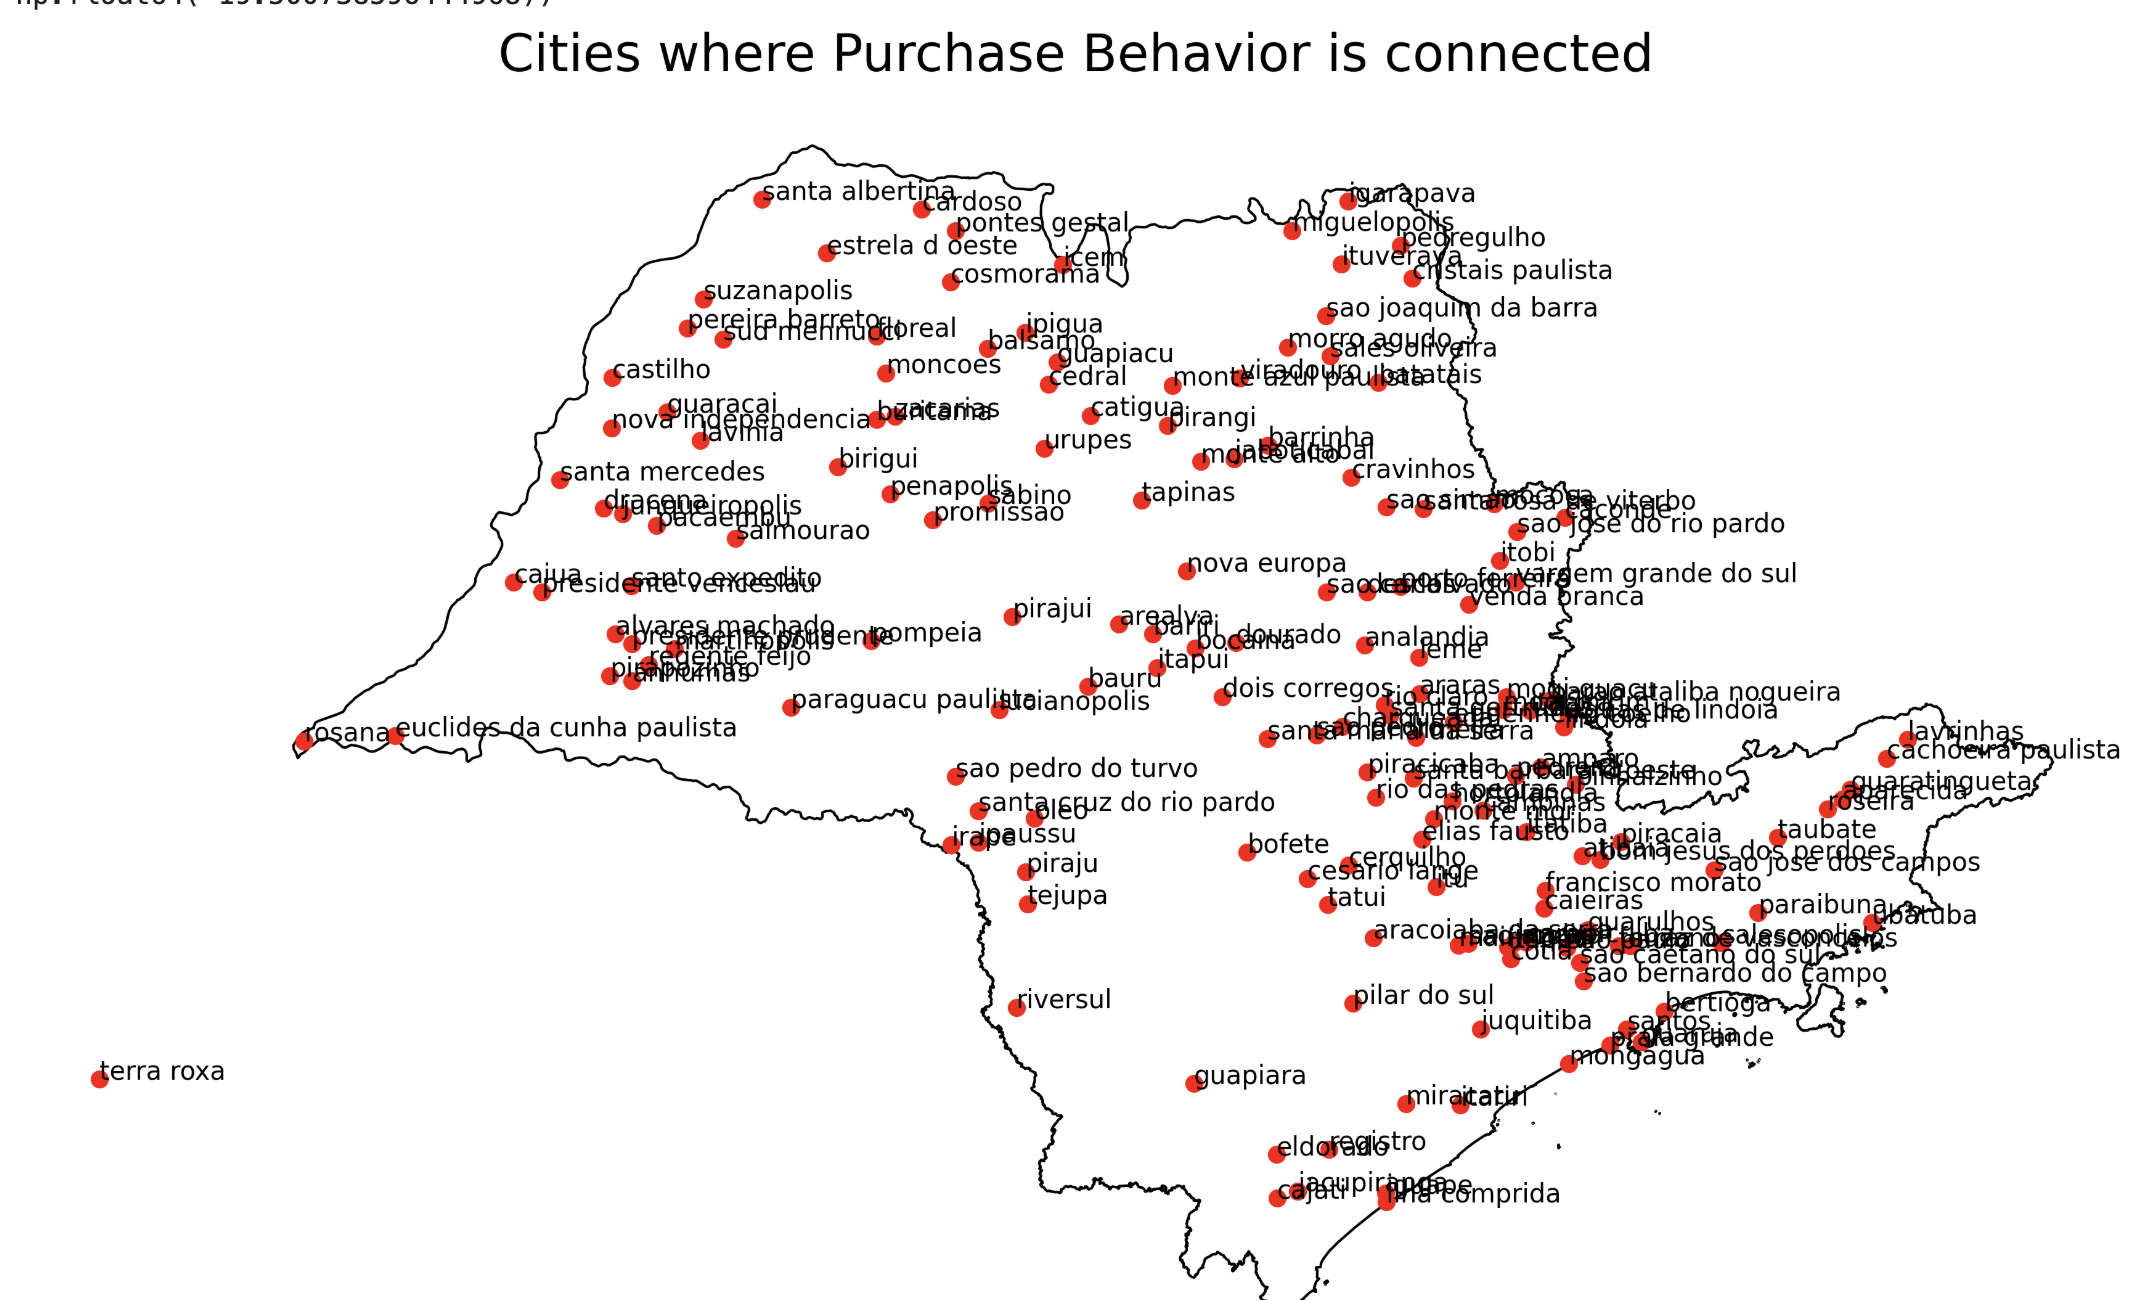
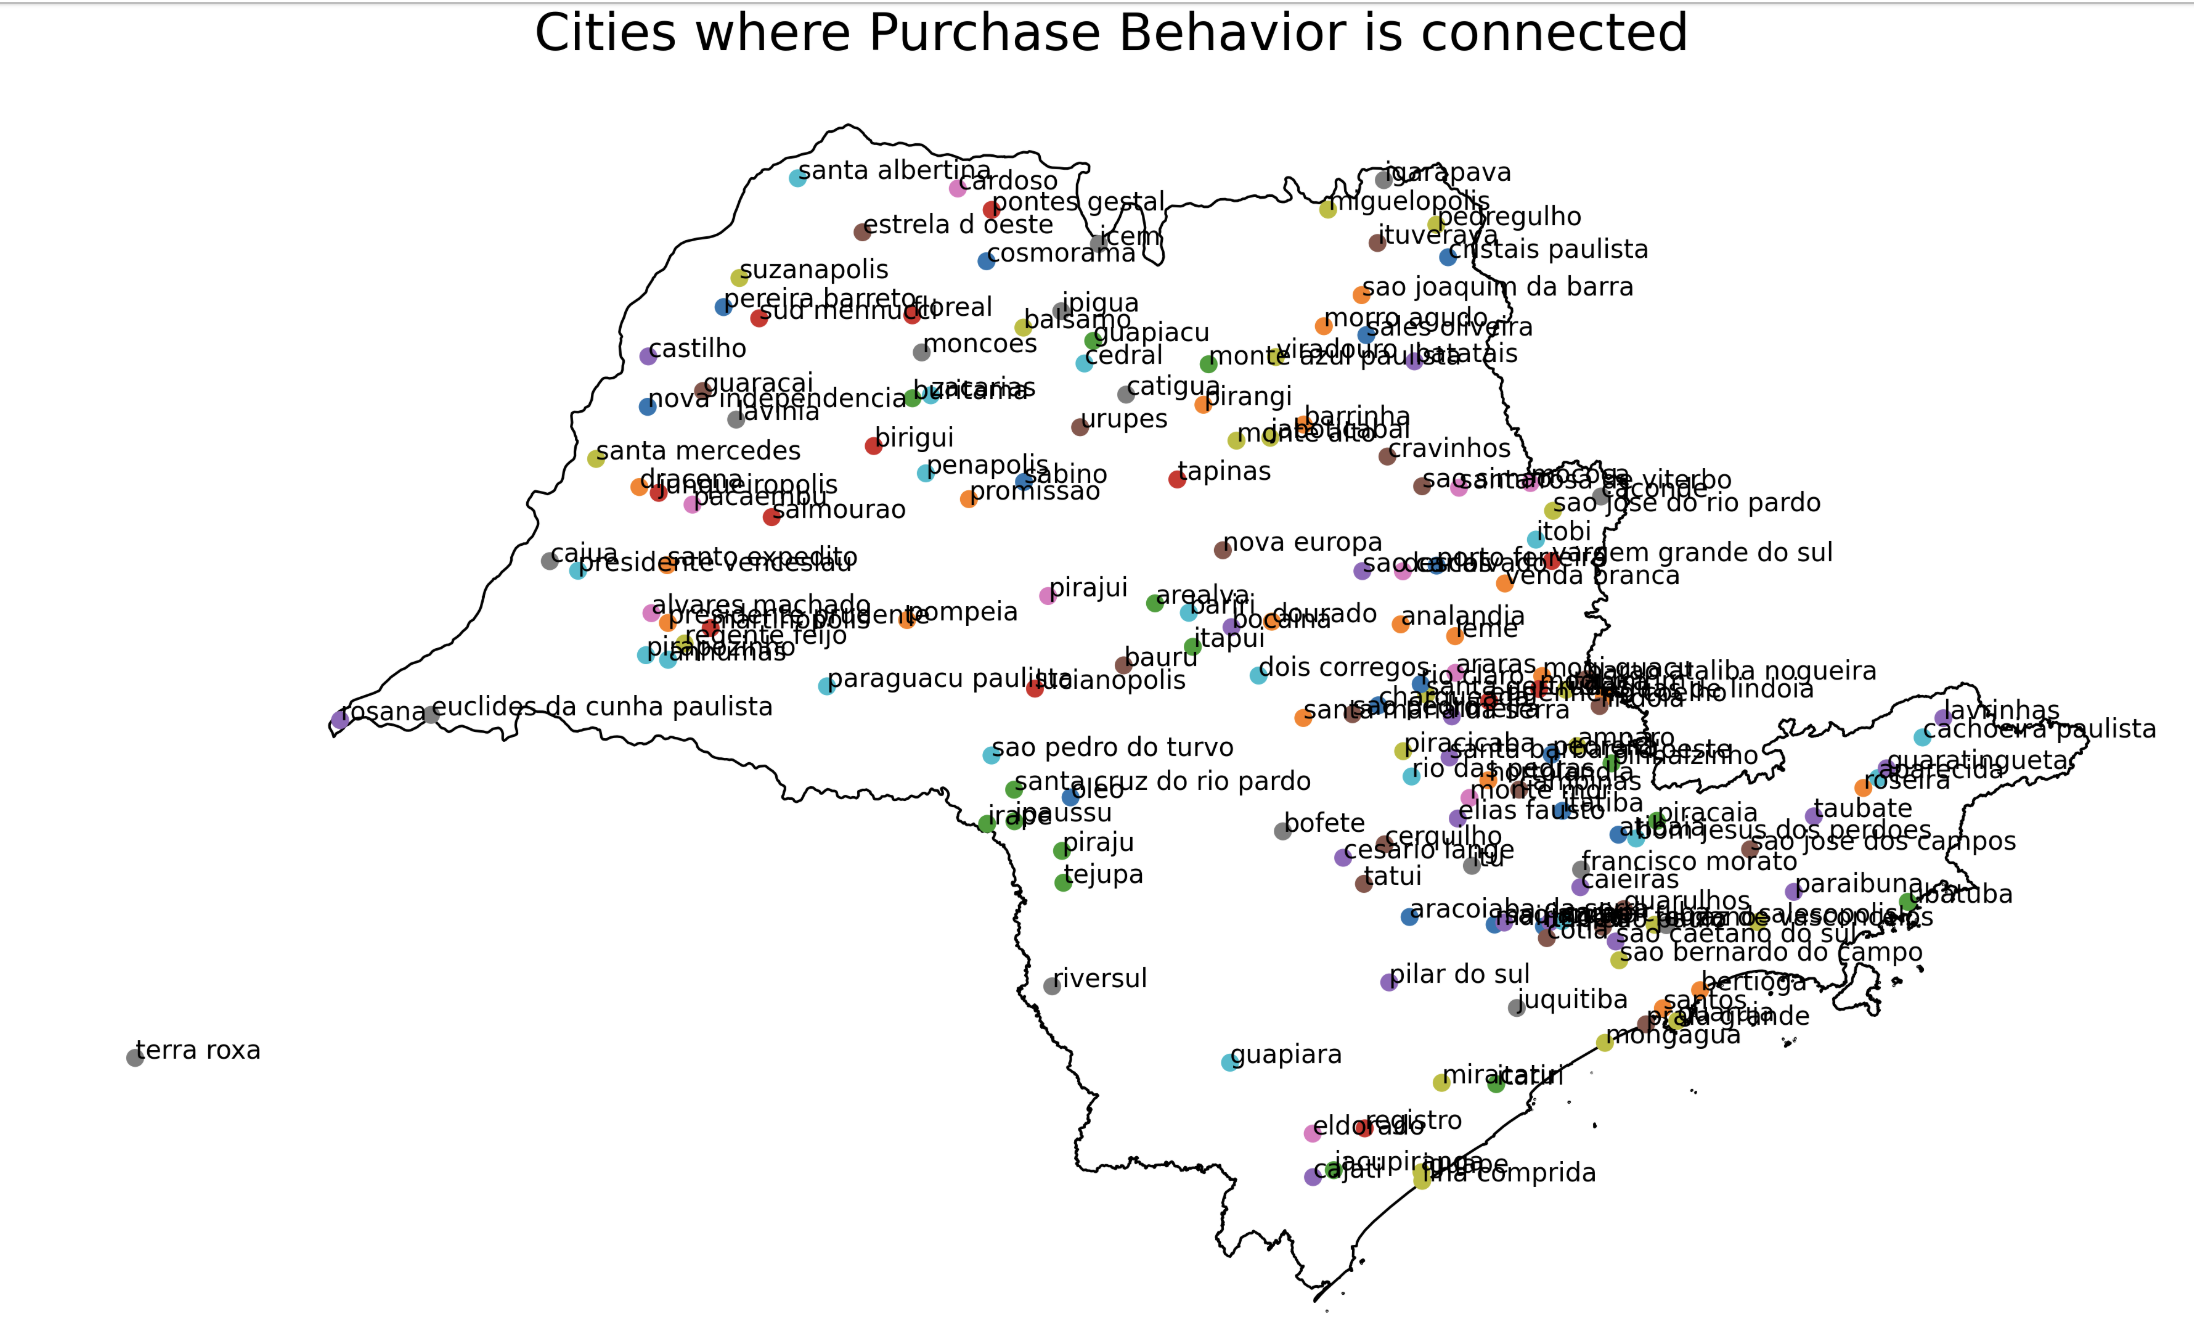
adding plots for geo behavior

diff --git a/examples/olist_case_study/picture_summary_SP_2017.md b/examples/olist_case_study/picture_summary_SP_2017.md
@@ -114,6 +114,7 @@ In the following cities, the purchase behavior may be treated as IID.
 In the following cities the purchase behavior is connected and should be treated as a graph.
 ![Connected purchase behavior in SP](../../images/purch_behavior_SP_connected.png)
 
+Cities shown with same color belong to the same connected component. 
 
 
 **code**:
